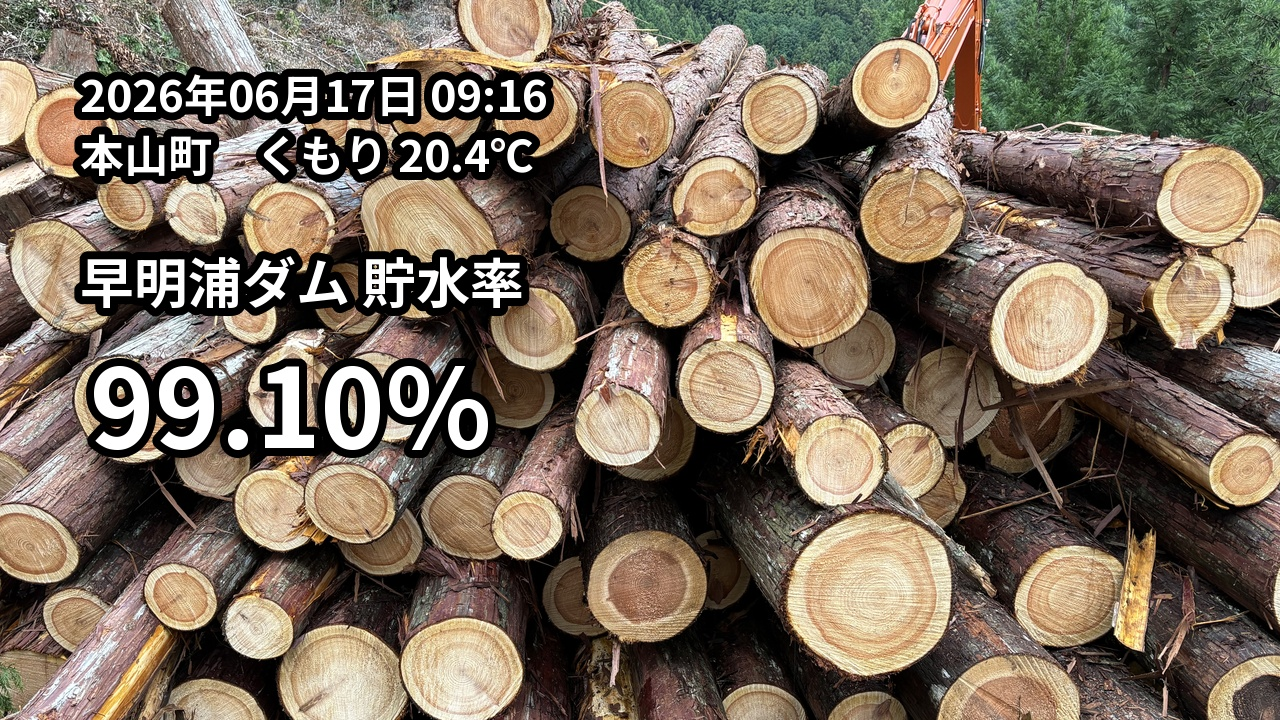
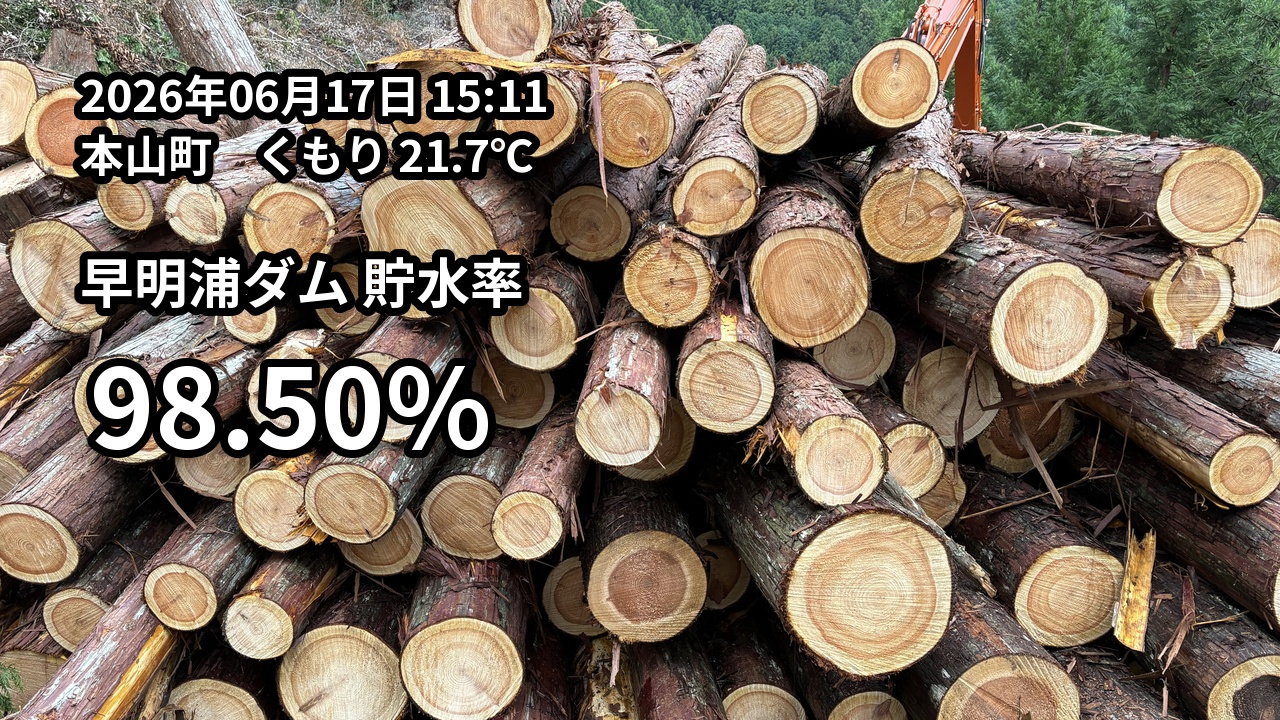
Update daily image

diff --git a/index.html b/index.html
@@ -10,6 +10,6 @@
   </style>
 </head>
 <body>
-  <img src="result.jpg?v=202606170916" alt="早明浦ダム 貯水率" />
+  <img src="result.jpg?v=202606171511" alt="早明浦ダム 貯水率" />
 </body>
 </html>
